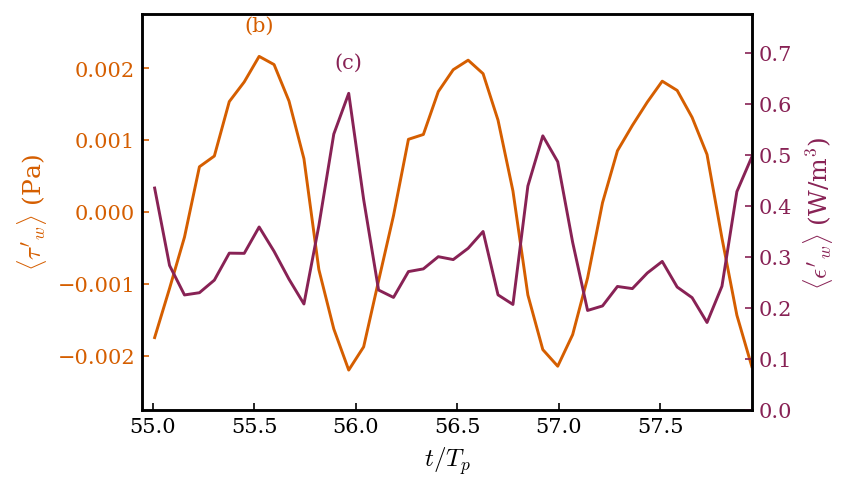
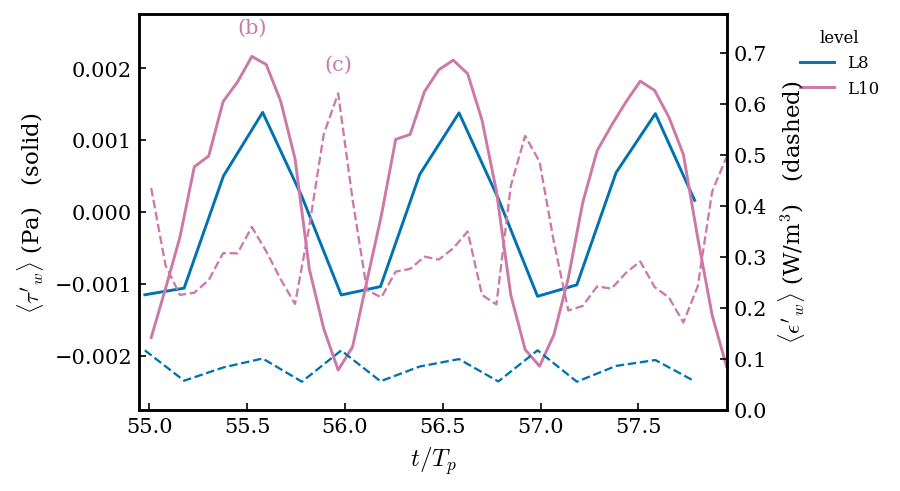
fix(fig8): the waveform is an unsettled transient; re-record, keep level colour
Kim's <tau'_w>(t) is nearly a pure sinusoid and ours is visibly
distorted. Measured rather than argued: half-period antisymmetry forbids
EVEN harmonics in a settled signed wall shear, and fig8_hist_l10 carries
a large one that DECAYS through the run -- 2x/1x = 0.880, 0.440, 0.228
over cycles 0-4, 4-7, 7-11 since its restart, halving every ~3.5 cycles
and still 0.228 at the end. The shape is the run relaxing after its warm
start, and every frame the figure uses is contaminated, including the
"settled half".

Submitted fig8_hist_l10b: continues fig8_hist_l10's own checkpoint (t =
35.2251, exactly cycle 58.000, so the planned-dump phase inference
applies and the missing sidecar costs nothing) for 20 cycles -- ~15 to
settle at that half-life, the tail to record. A continuation re-arms the
3-cycle ramp regardless of how settled the seed is, so the fix is
length, not a better seed. 112 min/cycle measured on the first
re-record, so ~37 h against the 47 h clamp, and the new deadline
checkpoint covers the estimate being wrong.

Two earlier claims withdrawn. The phase-fold scatter is this transient,
not genuine cycle-to-cycle variability of the flow. And L8 was not the
clean sinusoidal control it was presented as: it samples exactly 5.00
frames/cycle, Nyquist 2.5, so it cannot resolve a 2nd harmonic at all --
its higher harmonics fit as nonsense (5x/1x = 501.8), which is the rank
deficiency showing. Only a recording denser than ~8 frames/cycle can
[…]

diff --git a/scripts/plot_fig8.py b/scripts/plot_fig8.py
@@ -45,6 +45,7 @@ import numpy as np
 import matplotlib
 matplotlib.use("Agg")
 import matplotlib.pyplot as plt
+from matplotlib.lines import Line2D
 import sys
 from pathlib import Path as _Path
 sys.path.insert(0, str(_Path(__file__).resolve().parents[1]))
@@ -159,44 +160,67 @@ def time_panel(lvl="L10", n_cycles=3.0):
     relabelling them 80-83 would assert a correspondence with Kim's tracer
     protocol that this run does not have.
 
-    Colour here means QUANTITY, not dataset -- one run, two quantities, so
-    the dataset channel is unused and Kim's own blue/red is followed.
+    COLOUR STAYS ON THE LEVEL. Kim draws one dataset and spends colour on the
+    quantity (blue tau, red EDR), and copying that here would break the
+    project convention that colour means refinement level -- an established
+    convention worth more than matching one panel's palette, because a reader
+    carries it across all eighteen figures. So every level present is drawn
+    in its own hue and the QUANTITY is separated by the axis it belongs to
+    and by line style: solid on the left axis is tau, dashed on the right is
+    EDR. The axis labels are tinted neutral rather than per-quantity for the
+    same reason.
     """
-    d = series.get(lvl)
-    if d is None or not len(d.get("cyc", [])):
+    ref = series.get(lvl)
+    if ref is None or not len(ref.get("cyc", [])):
         print(f"time_panel: no data for {lvl}")
         return
-    c, tau, eps = d["cyc"], d["tau_t"], d["ediss_t"]
-    t1 = float(c.max())
-    t0 = max(float(c.min()), t1 - n_cycles)
-    m = (c >= t0) & (c <= t1)
-    if m.sum() < 8:
-        print(f"time_panel: only {m.sum()} frames in the window")
+    # Window set by the reference level, so every series shows the SAME three
+    # cycles of its own record rather than three arbitrary different ones.
+    t1 = float(ref["cyc"].max())
+    t0 = max(float(ref["cyc"].min()), t1 - n_cycles)
+
+    fig, ax = plt.subplots(figsize=(6.2, 3.4))
+    ax2 = ax.twinx()
+    shown = []
+    for name, _, col in RUNS:
+        d = series.get(name)
+        if d is None or not len(d.get("cyc", [])):
+            continue
+        c = d["cyc"]
+        m = (c >= t0) & (c <= t1)
+        if m.sum() < 8:
+            continue
+        ax.plot(c[m], d["tau_t"][m], color=col, lw=1.4, ls="-")
+        ax2.plot(c[m], d["ediss_t"][m], color=col, lw=1.1, ls="--")
+        shown.append((name, col))
+        if name == lvl:
+            # Peak instants of the reference level: these are what panels
+            # (b) and (c) take their distributions at.
+            tt, ee = d["tau_t"][m], d["ediss_t"][m]
+            ax.annotate("(b)", xy=(c[m][int(np.argmax(tt))], tt.max()),
+                        xytext=(0, 11), textcoords="offset points",
+                        color=col, fontsize=10, ha="center")
+            ax2.annotate("(c)", xy=(c[m][int(np.argmax(ee))], ee.max()),
+                         xytext=(0, 11), textcoords="offset points",
+                         color=col, fontsize=10, ha="center")
+    if not shown:
+        plt.close(fig)
+        print("time_panel: no level had frames in the window")
         return
 
-    fig, ax = plt.subplots(figsize=(5.8, 3.4))
-    ax2 = ax.twinx()
-    c_tau, c_eps = fs.COMPONENT_COLOUR["x"], fs.COMPONENT_COLOUR["y"]
-    ax.plot(c[m], tau[m], color=c_tau, lw=1.4)
-    ax2.plot(c[m], eps[m], color=c_eps, lw=1.4)
-
-    # Mark the peak of each average: these are the instants panels (b) and
-    # (c) take their distributions at, so the three panels are one statement.
-    i_tau = int(np.argmax(tau[m]))
-    i_eps = int(np.argmax(eps[m]))
-    ax.annotate("(b)", xy=(c[m][i_tau], tau[m][i_tau]),
-                xytext=(0, 12), textcoords="offset points",
-                color=c_tau, fontsize=10, ha="center")
-    ax2.annotate("(c)", xy=(c[m][i_eps], eps[m][i_eps]),
-                 xytext=(0, 12), textcoords="offset points",
-                 color=c_eps, fontsize=10, ha="center")
-
+    tau, eps = ref["tau_t"], ref["ediss_t"]
+    m = (ref["cyc"] >= t0) & (ref["cyc"] <= t1)
     ax.set_xlabel(r"$t/T_p$", fontsize=12)
-    ax.set_ylabel(r"$\langle\tau'_w\rangle$ (Pa)", fontsize=12, color=c_tau)
-    ax2.set_ylabel(r"$\langle\epsilon'_w\rangle$ (W/m$^3$)", fontsize=12,
-                   color=c_eps)
-    ax.tick_params(axis="y", colors=c_tau)
-    ax2.tick_params(axis="y", colors=c_eps)
+    ax.set_ylabel(r"$\langle\tau'_w\rangle$ (Pa)   (solid)", fontsize=11)
+    ax2.set_ylabel(r"$\langle\epsilon'_w\rangle$ (W/m$^3$)   (dashed)",
+                   fontsize=11)
+    # Only levels actually drawn in this window. A level whose recording
+    # covers different cycles has no curve here, and listing it would promise
+    # a series the reader then hunts for.
+    lv = [Line2D([], [], color=c, lw=1.4, label=n) for n, c in shown]
+    lg = ax.legend(handles=lv, fontsize=8, frameon=False, loc="upper left",
+                   bbox_to_anchor=(1.10, 1.0), title="level")
+    lg.get_title().set_fontsize(8)
     ax.set_xlim(t0, t1)
     # eps is a dissipation and cannot be negative; Kim's right axis starts
     # at 0 and the left is symmetric about it.

diff --git a/scripts/submit_fig8_hist.py b/scripts/submit_fig8_hist.py
@@ -45,8 +45,22 @@ from scripts.simulate import submit_slurm               # noqa: E402
 # reproduce the very sampling and masking defects this run exists to remove.
 BINARY = "/oscar/scratch/eaguerov/BioReactor-mpi-video-f1c11e0"
 SEED_RUN = "57f68830"          # converged L10 at 7 deg, 32.5 rpm
+# [2026-09-21] The first re-record (fig8_hist_l10) never settled. Measured on
+# its own frames, the SECOND harmonic of <tau'_w> -- which half-period
+# antisymmetry forbids in a settled signal -- decays 0.880 -> 0.440 -> 0.228
+# over cycles 0-4, 4-7, 7-11 after the restart, i.e. halving every ~3.5
+# cycles and still 0.228 at the end. Its waveform is a relaxing transient,
+# not L10's shape, which is why the curve read as broken rather than
+# sinusoidal and very likely why its EDR peaked 1.7x Kim's.
+#
+# A continuation re-arms the N_RAMP_CYCLES = 3 soft start, so each restart
+# buys a fresh transient regardless of how settled its seed is. The fix is
+# therefore length, not a better seed: run long enough that the new
+# transient decays below the level that matters before the recording window.
+# At a 3.5-cycle half-life, 0.88 -> under 0.05 takes ~15 cycles, so 20 gives
+# margin and the analysis uses the tail.
 RPM, LEVEL, NTASKS = 32.5, 10, 32
-N_CYCLES = 10
+N_CYCLES = 20            # ~15 to settle, tail to record
 FRAMES_PER_PERIOD = 13
 MIN_PER_CYCLE_VIDEO = 101.2    # 58.2 measured + ~43 video (cost_model.py)
 GEOMETRY = {"a": 0.25, "b": 0.03575, "n": 8.0}
@@ -64,10 +78,13 @@ def t_scales() -> tuple[float, float]:
 def main() -> None:
     ap = argparse.ArgumentParser()
     ap.add_argument("--cycles", type=float, default=N_CYCLES)
+    ap.add_argument("--seed", default=SEED_RUN,
+                    help="run whose checkpoint.dump to continue from")
+    ap.add_argument("--run-id", default="fig8_hist_l10")
     ap.add_argument("--dry-run", action="store_true")
     a = ap.parse_args()
 
-    ckpt = ROOT / "runs" / SEED_RUN / "checkpoint.dump"
+    ckpt = ROOT / "runs" / a.seed / "checkpoint.dump"
     if not ckpt.exists():
         raise SystemExit(f"checkpoint not found: {ckpt}")
     # Gated on params.t_checkpoint > 0, not on the dump being staged: without
@@ -78,7 +95,7 @@ def main() -> None:
 
     T_per, T_bio = t_scales()
     params = {
-        "run_id": "fig8_hist_l10", "fidelity": LEVEL,
+        "run_id": a.run_id, "fidelity": LEVEL,
         "t_checkpoint": t_ck,
         "geometry": GEOMETRY, "fill_level": 0.5, "n_harmonics": 1,
         "theta_max": THETA, "phi_angular": [0.0, 0.0, 0.0],
@@ -89,10 +106,14 @@ def main() -> None:
         "restart_continue": 1,
         "frames_per_period": FRAMES_PER_PERIOD,
         "_binary": BINARY,
-        "_parent_run": SEED_RUN,
+        "_parent_run": a.seed,
     }
     hours = a.cycles * MIN_PER_CYCLE_VIDEO / 60.0 * 1.4
-    walltime = f"{int(hours) + 1:02d}:00:00"
+    # Clamped to the 47 h Exploratory cap. Measured on the first re-record:
+    # 10 cycles took 18.7 h, i.e. 112 min/cycle, so 20 cycles is ~37 h and the
+    # clamp is not binding. If the estimate is wrong the run now checkpoints
+    # before the kill (BIOREACTOR_MAXRUNTIME_S) instead of losing itself.
+    walltime = f"{min(int(hours) + 1, 47):02d}:00:00"
     print(f"Fig 8(b,c) L10 re-record: {a.cycles:g} cycles, "
           f"{FRAMES_PER_PERIOD} frames/period "
           f"(~{a.cycles * FRAMES_PER_PERIOD:.0f} distinct phases)")
@@ -100,7 +121,7 @@ def main() -> None:
     # t_end_abs = t_checkpoint + t_end -- so print both. Printing only the
     # relative value next to the restart instant reads like the run ends
     # before it starts.
-    print(f"  from {SEED_RUN} at t={t_ck:.4f}, +{params['t_end']} "
+    print(f"  from {a.seed} at t={t_ck:.4f}, +{params['t_end']} "
           f"-> ends at t={t_ck + params['t_end']:.4f}, walltime={walltime}")
     if a.dry_run:
         print("  DRY RUN -- not submitted")

diff --git a/experiments/kimetal2024/figure_replicas/README.md b/experiments/kimetal2024/figure_replicas/README.md
@@ -39,7 +39,7 @@ the bag, so A.16's `n_L = 2^8` is L8 and carries L8's colour.
 | 1 | the two frames of reference | schematic, no run | exact — every number is a parameter |
 | 2 | rocking angle and mean velocities | `fig9_l9_rpm32.5` | good |
 | 7, A.17 | oxygen transfer and the kLa fit | `fig9_l9_rpm32.5` | good |
-| 8(a) | τ and EDR against time, 3 cycles | `fig8_hist_l10` | structure matches; **EDR is 1.7× Kim** |
+| 8(a) | τ and EDR against time, 3 cycles | `fig8_hist_l10` | **do not present — transient, see below** |
 | 8(b,c) | τ and EDR distributions at the peak instant | `fig8_hist_l10` | good |
 | 9 | mixing time against rpm | 6 of 10 L9 points | **partial, and see the caveat** |
 | 11 | kLa against rpm | same 6 points | **partial, not grid-converged** |
@@ -65,21 +65,47 @@ t/T_p = 47, not 80, and for a settled periodic flow any three consecutive
 settled cycles are equivalent; relabelling them 80–83 would assert a
 correspondence with Kim's tracer protocol that this run does not have.
 
-**Two quantitative gaps in Fig 8, both open.** Our τ amplitude matches (±2.2e-3
+**Fig 8 is not settled, and that explains the rest of it.** Kim's ⟨τ'_w⟩(t) is
+very nearly a pure sinusoid; ours is visibly distorted. Half-period
+antisymmetry forbids EVEN harmonics in a settled signed wall shear, and
+`fig8_hist_l10` has a large one that DECAYS through the run — 2×/1× = 0.880,
+0.440, 0.228 over cycles 0–4, 4–7, 7–11 after its restart, halving every ~3.5
+cycles and still 0.228 at the end. So the waveform is the run relaxing after
+its warm start, not L10's shape, and the frames the figure uses are all
+contaminated. `fig8_hist_l10b` re-records with 20 cycles (~15 to settle, the
+tail to record).
+
+Two claims made earlier and withdrawn: that the phase-fold scatter was genuine
+cycle-to-cycle variability of the flow (it is this transient), and that L8
+provided a clean sinusoidal control (L8 samples exactly 5.00 frames/cycle,
+Nyquist 2.5, so it is structurally blind to a 2nd harmonic — its higher
+harmonics fit as nonsense, 5×/1× = 501.8, which is how the rank deficiency
+shows). Only a recording denser than ~8 frames/cycle can measure waveform
+shape at all, and until `fig8_hist_l10b` lands we have exactly one such
+recording and it is the unsettled one.
+
+**Two quantitative gaps in Fig 8, probably the same cause.** Our τ amplitude matches (±2.2e-3
 vs his ±2.0e-3 Pa) and EDR shows his two-peaks-per-cycle correctly, but our
 EDR peaks near 0.68 W/m³ against his 0.40 — a factor 1.7 — and the shape is
 spikier where his is smooth. Separately, our τ *distribution* at the peak
 instant spans ±0.49 Pa while his histogram fits inside ±0.015: the means agree
 while our tails are ~30× wider, and 7.5% of samples fall outside his window.
-Wide tails in a wall quantity with a correct mean is the signature of
-grid-scale noise near the embedded boundary, which is exactly what the project
-has been burned by before — it needs a volume metric (dissipation), not
-another wall number, to diagnose. Not yet investigated.
+Both are most likely the settling transient above rather than a separate
+defect, and the re-record tests that directly: if EDR falls to ~0.4 and the
+tails narrow once the even harmonic is gone, there is nothing else to chase.
+If they do not, a correct wall mean hiding wide tails is the grid-scale-noise
+signature this project has been caught by before, and diagnosing it needs a
+volume metric, not another wall number.
 
-**The time axis is under-sampled for a smooth curve.** 41 frames over three
-cycles is ~14 per cycle, so panel (a) reads as a polygon where Kim's is
-smooth. Cosmetic, fixed by a denser `frames_per_period` on the next
-re-record.
+**Panel (a) keeps colour on the refinement level**, against Kim, who spends it
+on the quantity (blue τ, red EDR) because he draws one dataset. Colour meaning
+level is a project-wide convention a reader carries across all eighteen
+figures, and it is worth more than matching one panel's palette; quantity is
+separated by axis and line style instead — solid left is τ, dashed right is
+EDR. Levels whose recordings cover different cycles simply do not appear.
+
+L8's curve is triangular because it samples 5 frames per cycle; that is its
+recording, not its physics.
 
 **`diagnostic_Fig8_phasefold_*.png` are not replicas.** They fold all cycles
 onto one period to show cycle-to-cycle repeatability, which Kim's panel does
